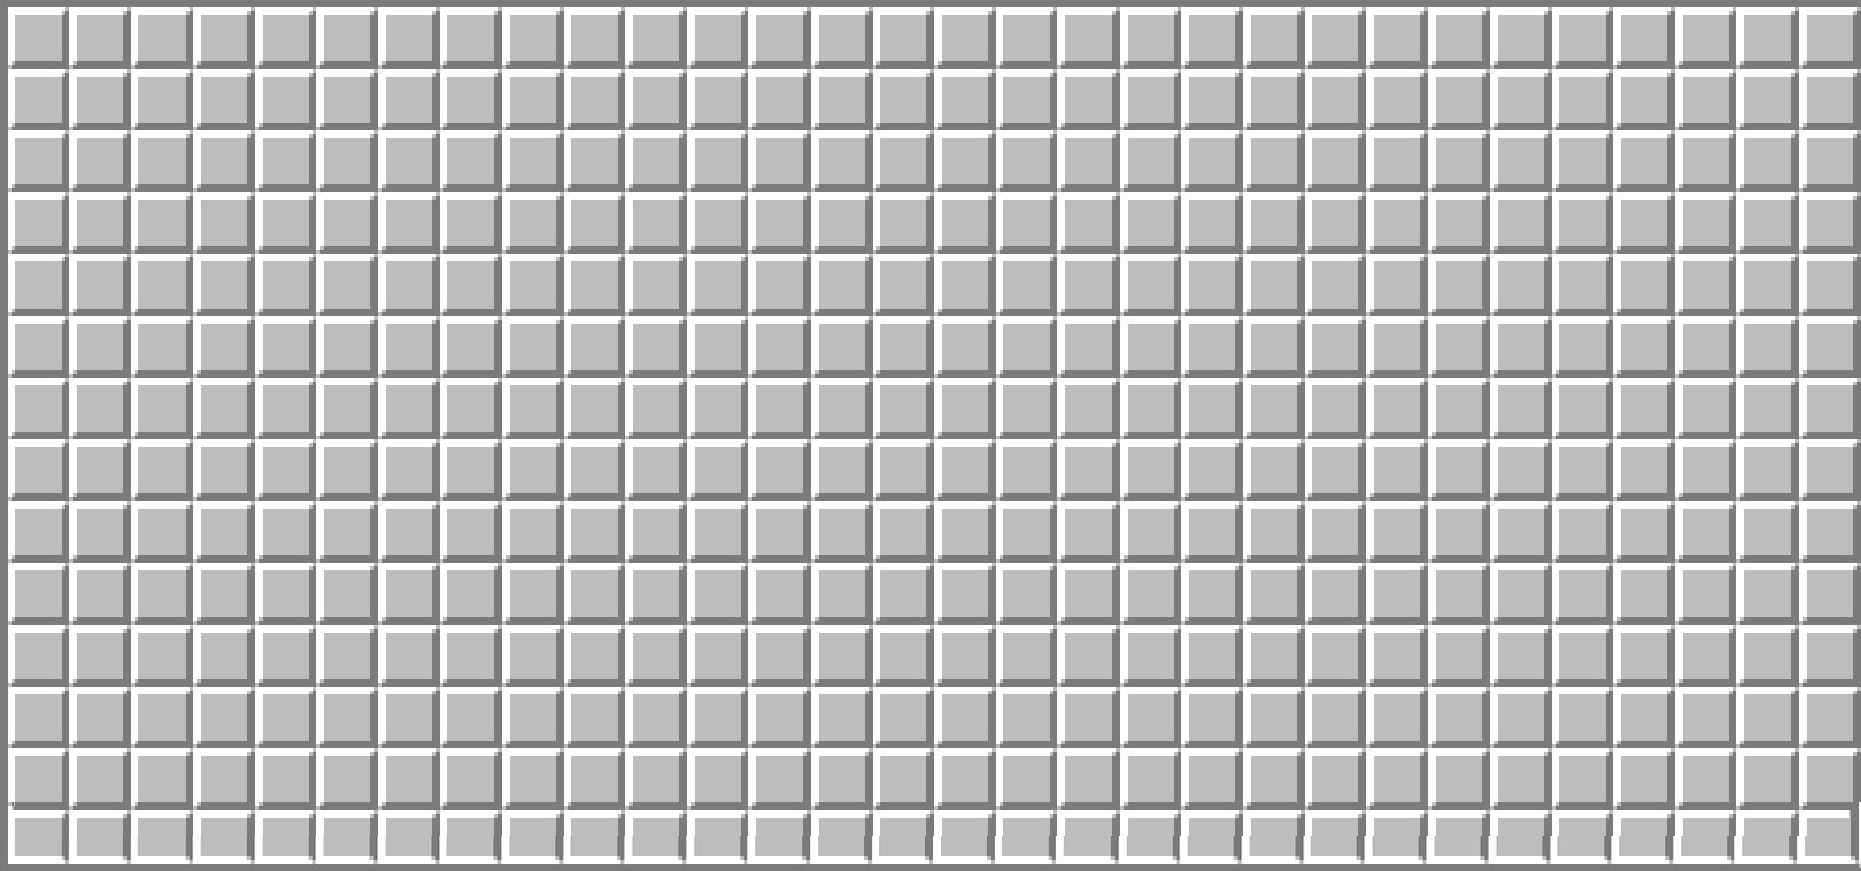
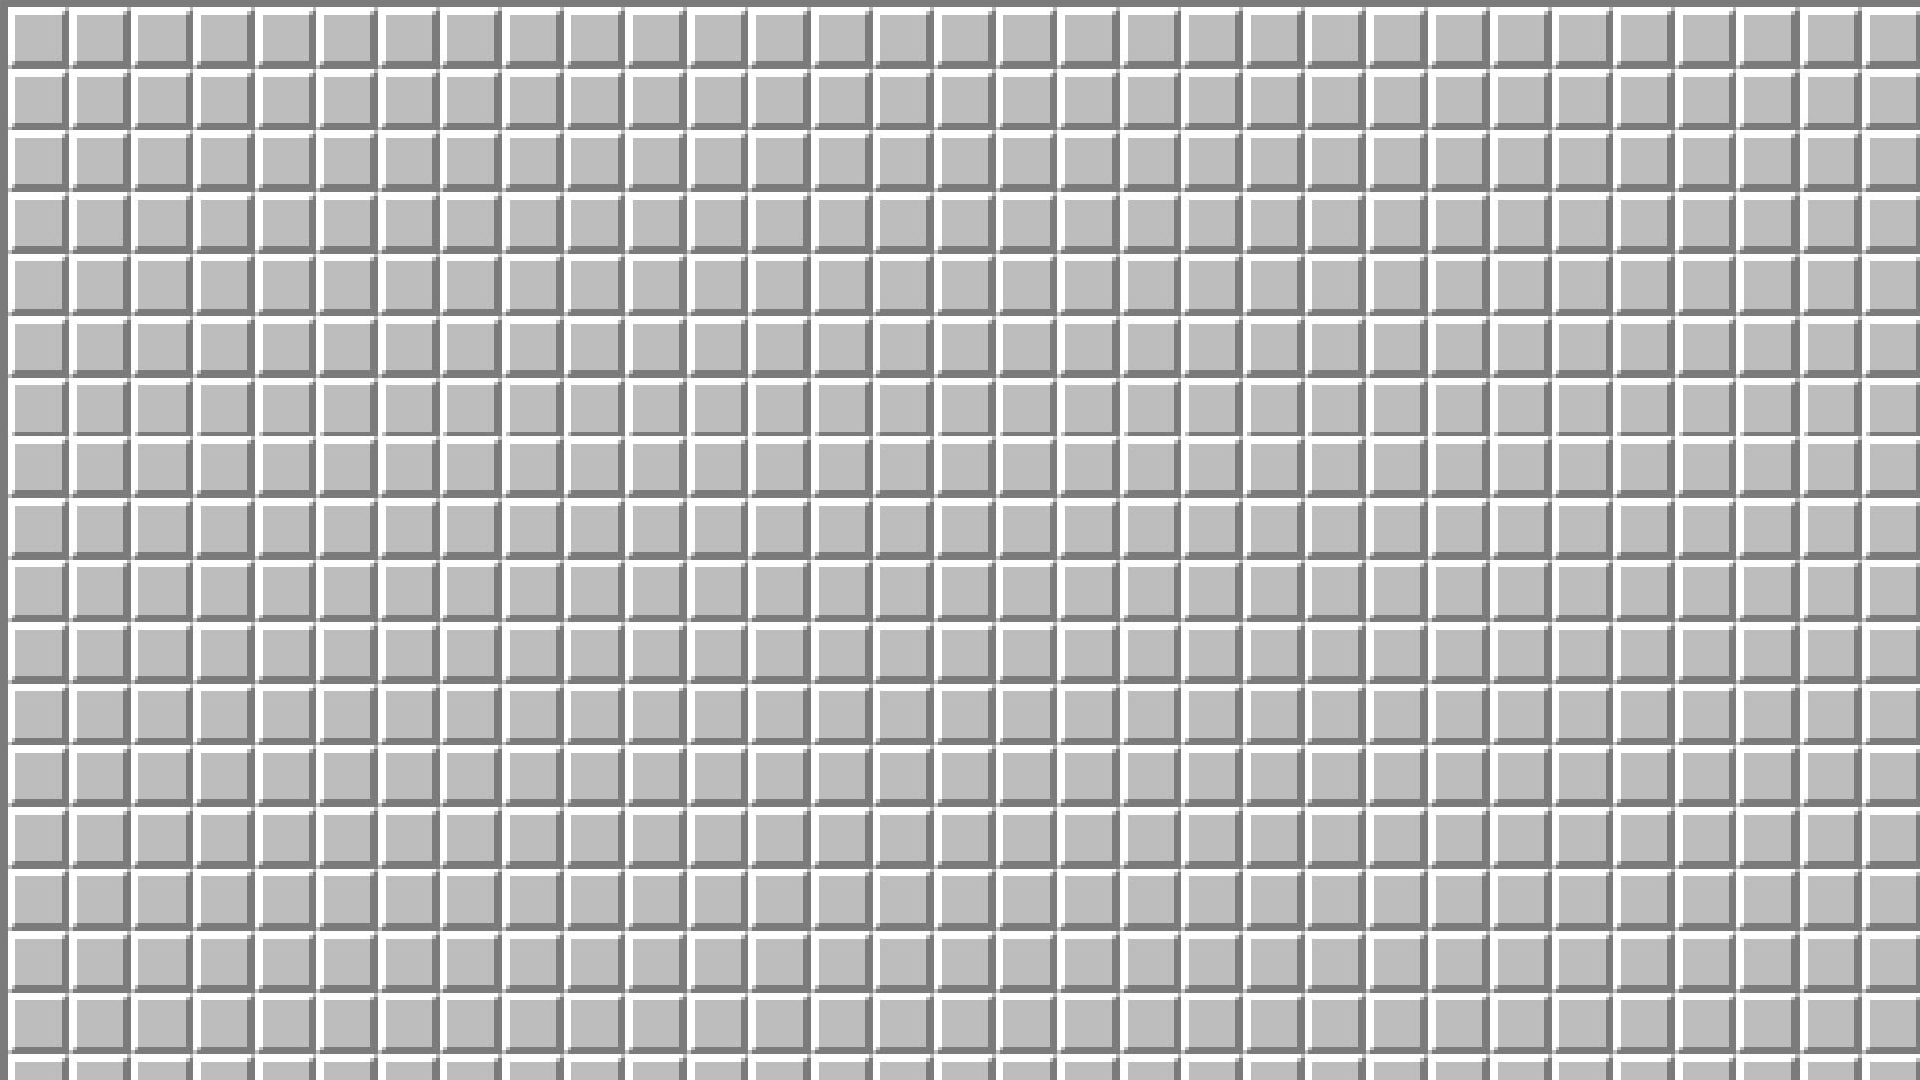
Implemented LeaderBoard,Added TextBoxStyler for better Leaboard Style adjusting

diff --git a/Minesweeper/MainWindow.xaml b/Minesweeper/MainWindow.xaml
@@ -6,7 +6,7 @@
         xmlns:local="clr-namespace:Minesweeper"
         mc:Ignorable="d"
         AllowsTransparency="False"
-        WindowStyle="None"
+        WindowStyle="SingleBorderWindow"
         Title="MainWindow" Height="720" Width="1280">
     <Window.Resources>
         <Storyboard x:Key="BackgroundAnimation" RepeatBehavior="Forever">
@@ -67,7 +67,7 @@
                 <EventTrigger RoutedEvent="Window.Loaded">
                     <BeginStoryboard>
                         <Storyboard RepeatBehavior="Forever">
-                            <DoubleAnimation Storyboard.TargetProperty="RenderTransform.(TranslateTransform.X)" BeginTime="0:0:3" Duration="0:0:6" To="1600"/>
+                            <DoubleAnimation Storyboard.TargetProperty="RenderTransform.(TranslateTransform.X)" BeginTime="0:0:3" Duration="0:0:6" To="3600"/>
                         </Storyboard>
                     </BeginStoryboard>
                 </EventTrigger>
@@ -83,9 +83,8 @@
             <RowDefinition/>
             <RowDefinition/>
         </Grid.RowDefinitions>
-        <Frame x:Name="FrameForLeaderBoard"/>
         <Canvas>
-            <Border Width="1861" Height="871" HorizontalAlignment="Stretch" VerticalAlignment="Stretch" Grid.RowSpan="3">
+            <Border Width="2560" Height="1710" Grid.RowSpan="3" Canvas.Left="-10" Canvas.Top="-20">
                 <Border.Background>
                     <ImageBrush ImageSource="data/graphics/MineSweeperBackground.png" Stretch="UniformToFill"/>
                 </Border.Background>
@@ -115,14 +114,14 @@
                 <RowDefinition Height="15*"/>
                 <RowDefinition Height="15*"/>
             </Grid.RowDefinitions>
-            <Button x:Name="startButton" Click="StartButton_Click" Grid.Column="1" Grid.Row="2" Grid.ColumnSpan="3" Margin="60,5,60,5" Background="#FF9ECFF5" BorderBrush="#99000000" Content="Start"  FontSize="35" HorizontalContentAlignment="Center" VerticalContentAlignment="Center" FontWeight="DemiBold">
+            <Button x:Name="startButton" Click="StartButton_Click" Grid.Column="1" Grid.Row="2" Grid.ColumnSpan="3" Margin="60,5,60,5" Background="#FF9ECFF5" BorderBrush="#99000000" Content="Start"  FontSize="34" HorizontalContentAlignment="Center" VerticalContentAlignment="Center" FontWeight="DemiBold">
                 <Button.Resources>
                     <Style TargetType="Border">
                         <Setter Property="CornerRadius" Value="20"/>
                     </Style>
                 </Button.Resources>
             </Button>
-            <Button x:Name="leaderBoardButton" Click="leaderBoardButton_Click" Grid.Column="1" Grid.Row="3" Grid.ColumnSpan="3" Margin="60,5,60,5" Background="#FF9ECFF5" BorderBrush="#99000000" UseLayoutRounding="False" Content="LeaderBoard" FontSize="35" HorizontalContentAlignment="Center" VerticalContentAlignment="Center" FontWeight="DemiBold">
+            <Button x:Name="leaderBoardButton" Click="leaderBoardButton_Click" Grid.Column="1" Grid.Row="3" Grid.ColumnSpan="3" Margin="60,5,60,5" Background="#FF9ECFF5" BorderBrush="#99000000" UseLayoutRounding="False" Content="LeaderBoard" FontSize="34" HorizontalContentAlignment="Center" VerticalContentAlignment="Center" FontWeight="DemiBold" >
                 <Button.Resources>
                     <Style TargetType="Border">
                         <Setter Property="CornerRadius" Value="20"/>
@@ -228,5 +227,6 @@
                 </TextBlock.Foreground>
             </TextBlock>
         </Grid>
+        <Frame Grid.RowSpan="3" x:Name="FrameForLeaderBoard"/>
     </Grid>
 </Window>

diff --git a/Minesweeper/Xaml/Sites/LeaderBoard.xaml b/Minesweeper/Xaml/Sites/LeaderBoard.xaml
@@ -16,8 +16,9 @@
         </Border>
         <Border Background="#805F5454" HorizontalAlignment="Stretch" VerticalAlignment="Stretch">
         </Border>
-        <Grid x:Name="CurrentLeaderBoard" Margin="100,50" >
+        <Grid x:Name="CurrentLeaderBoard" Margin="100,30,100,10" >
             <Grid.RowDefinitions>
+                <RowDefinition Height="*"/>
                 <RowDefinition Height="*"/>
                 <RowDefinition Height="*"/>
                 <RowDefinition Height="*"/>
@@ -34,7 +35,7 @@
                 <ColumnDefinition Width="*"/>
                 <ColumnDefinition Width="*"/>
             </Grid.ColumnDefinitions>
-            <Border Grid.Row="0" Grid.Column="0" BorderThickness="5" Grid.ColumnSpan="3" Grid.RowSpan="11" CornerRadius="50" BorderBrush="Black">
+            <Border Grid.Row="0" Grid.Column="0" BorderThickness="5" Grid.ColumnSpan="3" Grid.RowSpan="10" CornerRadius="50" BorderBrush="Black">
                 <Border.Background>
                     <LinearGradientBrush EndPoint="0.5,1" StartPoint="0.5,0">
                         <GradientStop Color="#7FB30303" Offset="0.77"/>
@@ -46,7 +47,14 @@
                     </LinearGradientBrush>
                 </Border.Background>
             </Border>
-            <Border Grid.Row="0" Grid.Column="1" Grid.RowSpan="11" BorderThickness="5,0,5,0" BorderBrush="Black"/>
+            <Border Grid.Row="0" Grid.Column="1" Grid.RowSpan="10" BorderThickness="5,0,5,0" BorderBrush="Black"/>
+            <Button Click="Back_Click" Content="Back" Grid.Row="11" FontSize="29" HorizontalContentAlignment="Center" VerticalContentAlignment="Center" Margin="150,20,150,0" Grid.ColumnSpan="3" BorderThickness="1" Background="#FF9ECFF5" BorderBrush="#99000000">
+                <Button.Resources>
+                    <Style TargetType="Border">
+                        <Setter Property="CornerRadius" Value="20"/>
+                    </Style>
+                </Button.Resources>
+            </Button>
         </Grid>
     </Grid>
 </Page>

diff --git a/Minesweeper/Xaml/Sites/LeaderBoard.xaml.cs b/Minesweeper/Xaml/Sites/LeaderBoard.xaml.cs
@@ -57,15 +57,26 @@ namespace Minesweeper.Xaml.Sites
         {
             for (int row = 0; row < 10; row++)
             {
-                for (int column = 0; column < 2; column++)
+                for (int column = 0; column < 3; column++)
                 {
                     string text = _splittedData[row][column];
-                    TextBlock textBlock = new TextBlock();
+                    TextBlock textBlock = new TextBlockStyler(new TextBlock()).StyledTextBox;
                     textBlock.Text = text;
 
                     Grid.SetRow(textBlock, row);
                     Grid.SetColumn(textBlock, column);
+                    CurrentLeaderBoard.Children.Add(textBlock);
                 }
+            }
+        }
+
+        private void Back_Click(object sender, RoutedEventArgs e)
+        {
+            var mainWindow = Application.Current.MainWindow as MainWindow;
+            if (mainWindow != null)
+            {
+                // Leere den Frame, um zur Hauptansicht zurückzukehren
+                mainWindow.FrameForLeaderBoard.NavigationService.Navigate(null);
             }
         }
     }

diff --git a/Minesweeper/data/classes/TextBlockStyler.cs b/Minesweeper/data/classes/TextBlockStyler.cs
@@ -1,0 +1,40 @@
+using System;
+using System.Collections.Generic;
+using System.Linq;
+using System.Text;
+using System.Threading.Tasks;
+using System.Windows.Controls;
+using System.Windows;
+using System.Windows.Media;
+
+namespace Minesweeper.data.classes
+{
+    internal class TextBlockStyler
+    {
+        public TextBlockStyler(TextBlock thisTextBlock)
+        {
+            StyledTextBox = thisTextBlock;
+            GetInPosition();
+            GetColor();
+            GetSize();
+        }
+
+        public TextBlock StyledTextBox { get; private set; }
+
+        private void GetInPosition()
+        {
+            StyledTextBox.HorizontalAlignment = HorizontalAlignment.Center;
+            StyledTextBox.VerticalAlignment = VerticalAlignment.Center;
+        }
+
+        private void GetColor()
+        {
+            StyledTextBox.Foreground = new SolidColorBrush(Colors.White);
+        }
+
+        private void GetSize()
+        {
+            StyledTextBox.FontSize = 40;
+        }
+    }
+}
